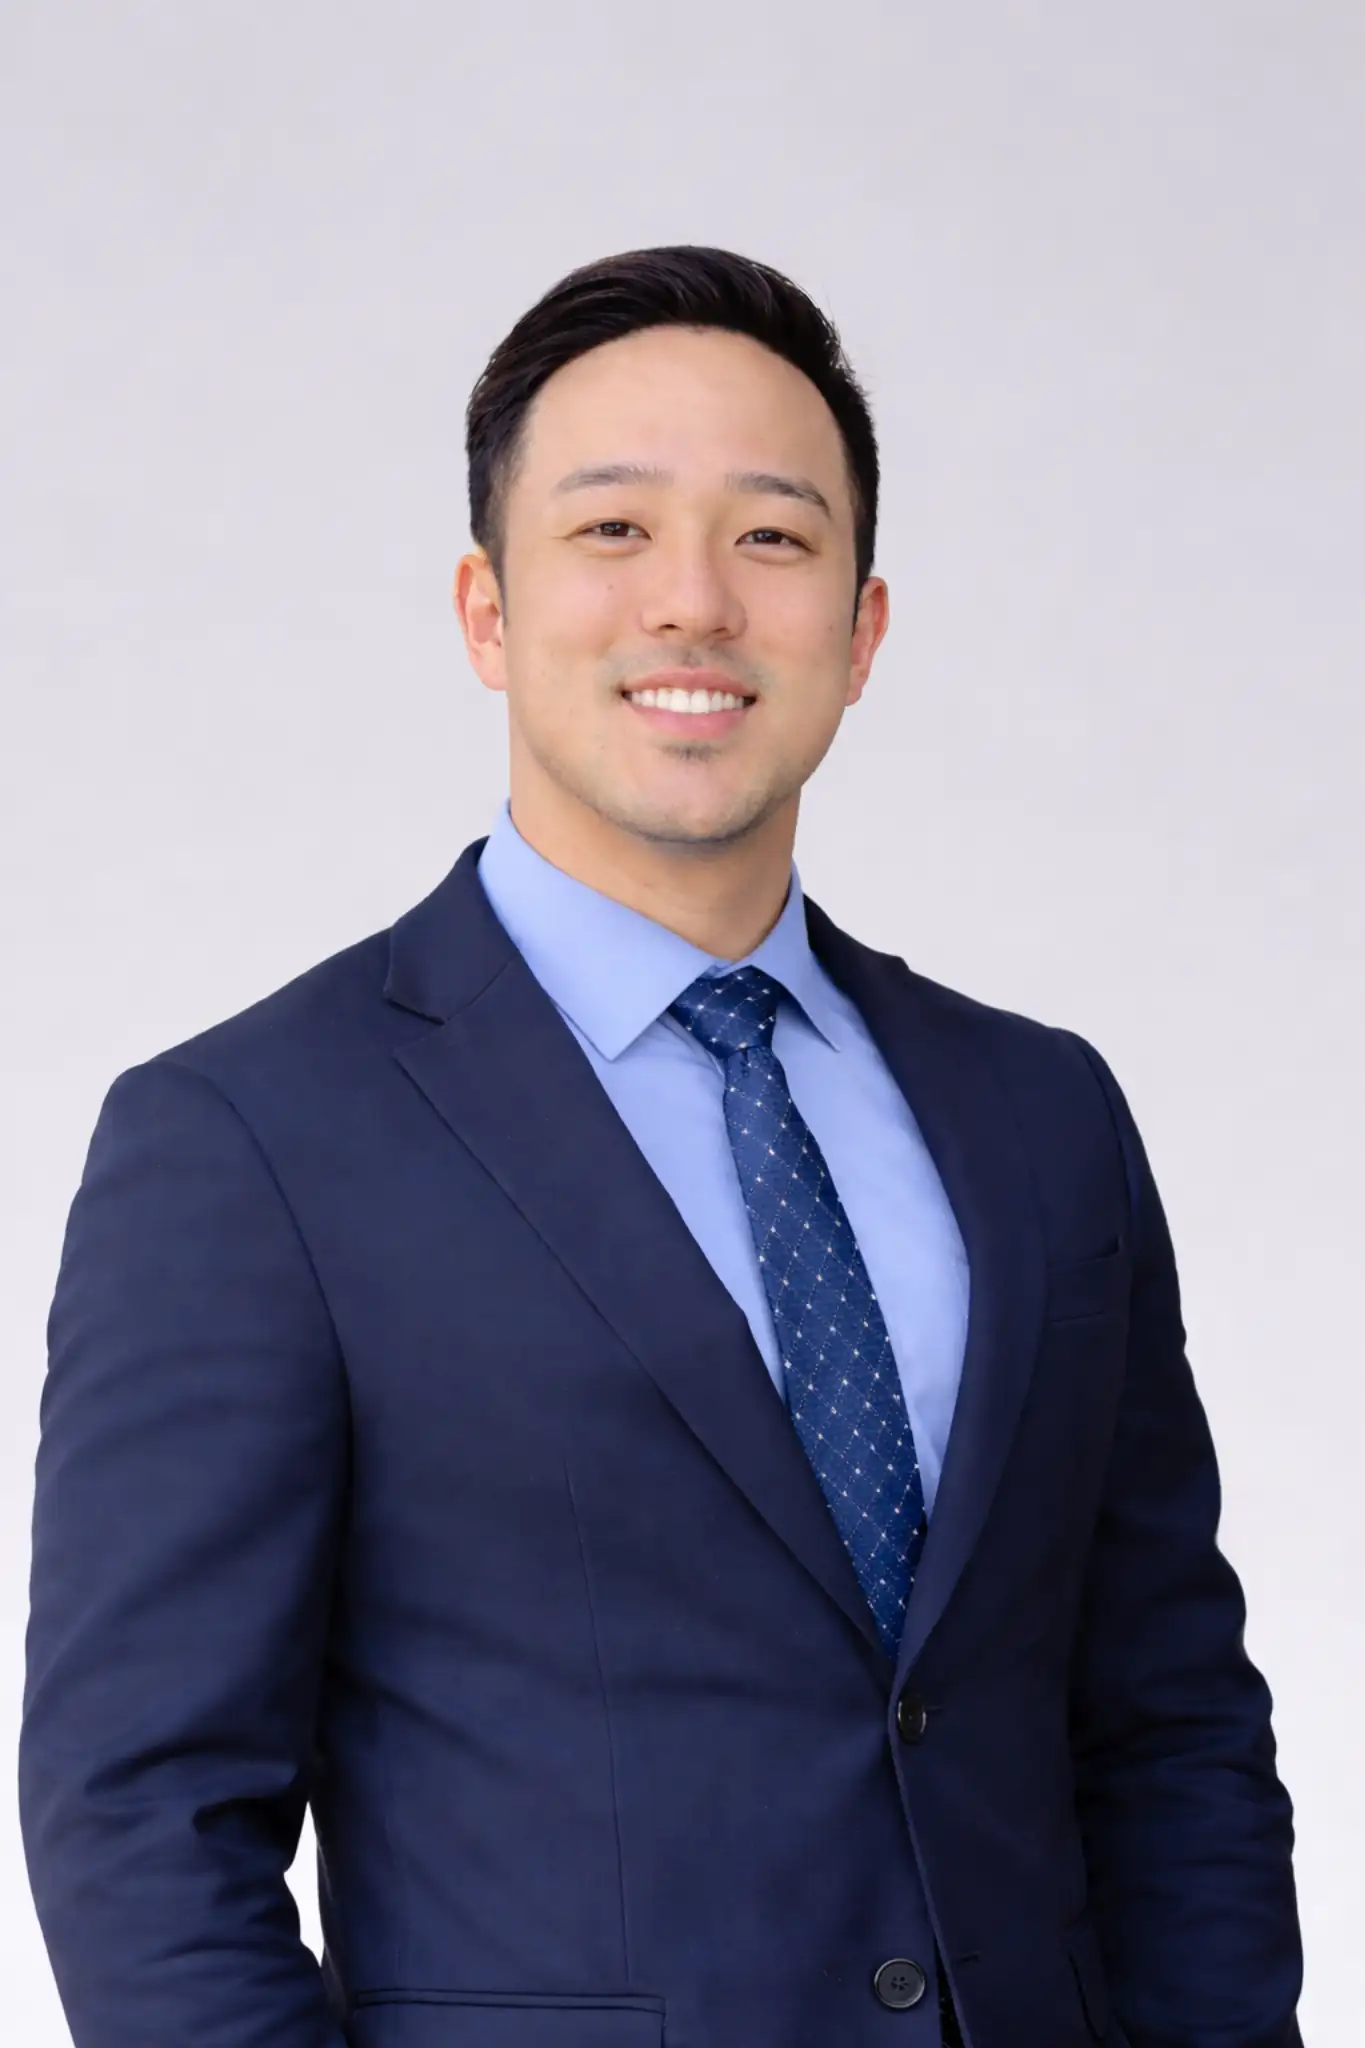
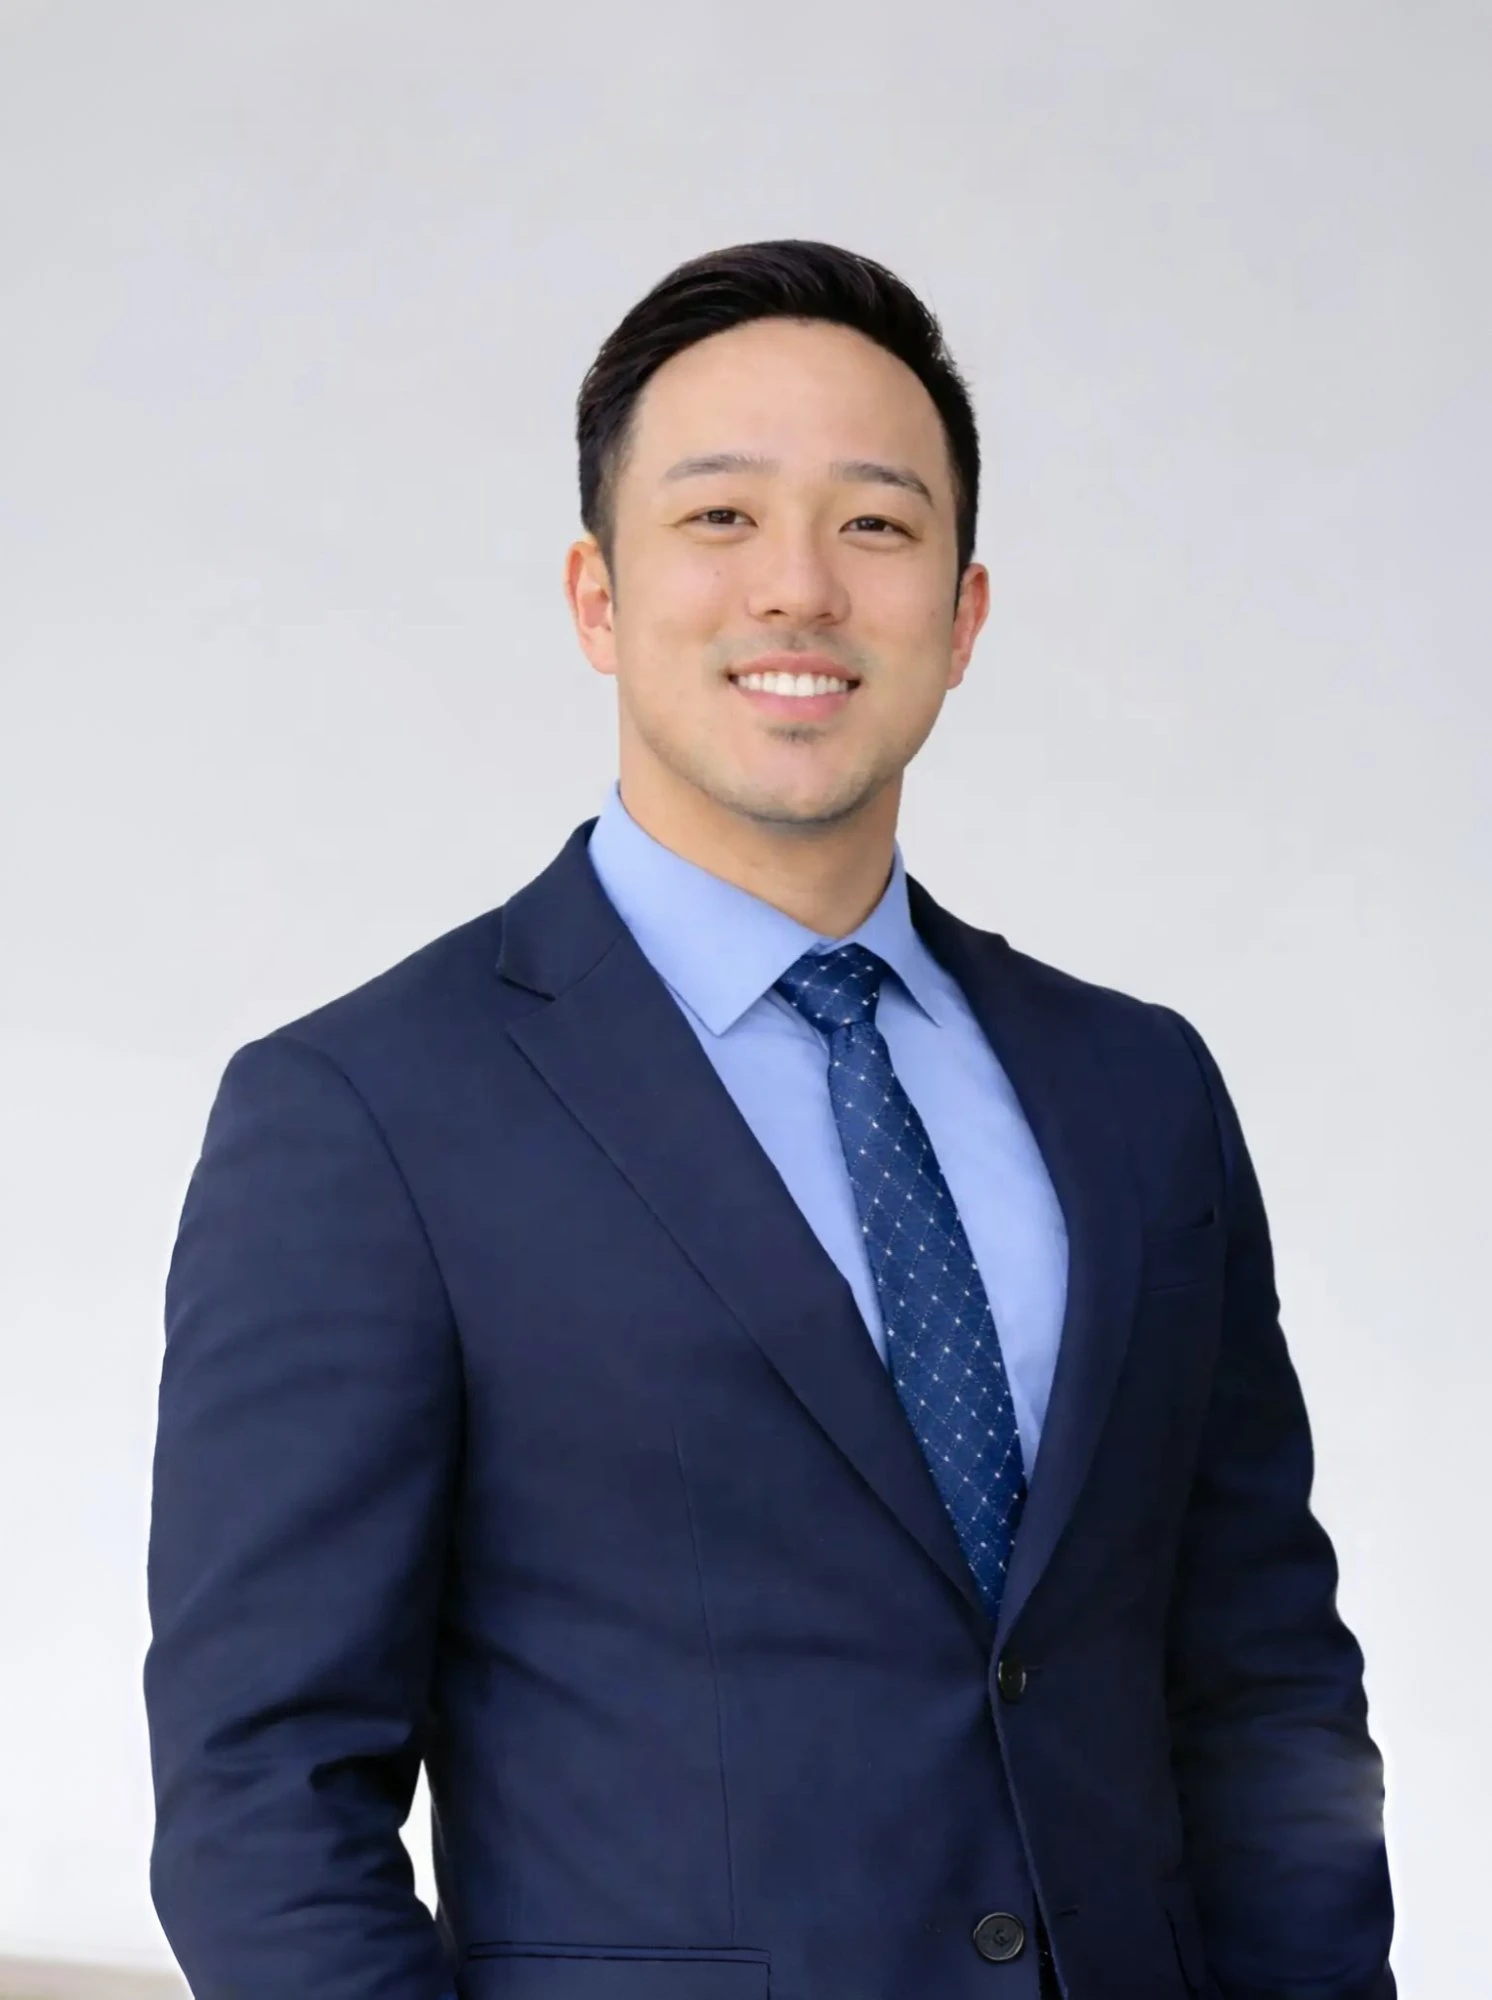
replaced about. and widened my profile pic

diff --git a/about.html b/about.html
@@ -32,7 +32,10 @@ justify-content: flex-end;
 
 .about-hero-image img {
 max-width: 380px;
+max-height: 480px;
 width: 100%;
+object-fit: cover;
+object-position: center top;
 border-radius: 8px;
 }
 
